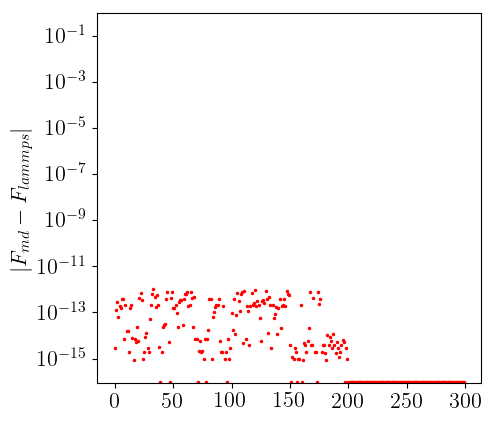
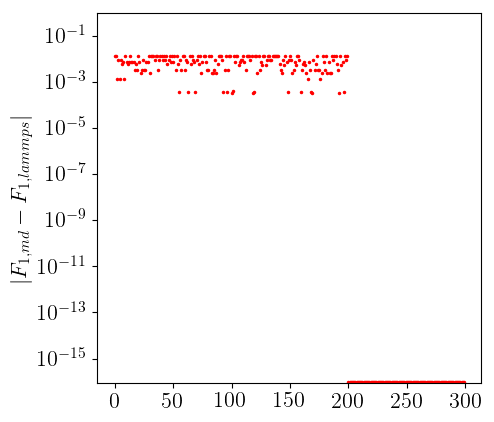
Rewrote main program for clarity, added tests for second time step positions/velocities/forces. Something is awfully wrong..

diff --git a/testcases/md-2d-lj/analysis/positions_and_velocities_and_forces.py b/testcases/md-2d-lj/analysis/positions_and_velocities_and_forces.py
@@ -46,29 +46,25 @@ if __name__ == '__main__':
     compileAndRun()
 
     # Read positions/forces.dump and lammps.dump 
-    forces_md        = readValues('forces.dump')
     positions_md     = readValues('positions.dump')
-    positions2_md    = readValues('positions2.dump')
     velocities_md    = readValues('velocities.dump')
-    positions_lammps, velocities_lammps, forces_lammps = getValuesLammps(0)
+    forces_md        = readValues('forces.dump')
+
+    positions2_md    = readValues('positions.dump')
+    velocities2_md   = readValues('velocities.dump')
+    forces2_md       = readValues('forces.dump')
+
+    positions_lammps,  velocities_lammps,  forces_lammps  = getValuesLammps(0)
+    positions2_lammps, velocities2_lammps, forces2_lammps = getValuesLammps(1)
 
     markersize = 3.0
     low_limit = 0.9e-16
     up_limit = 1e-0
     fontsize = 16
 
-    plt.figure()
     plt.rc('text', usetex=True)
-    difference = np.abs(np.ravel(forces_md)-np.ravel(forces_lammps))
-    difference[difference<1e-16] = 1e-16
-    plt.semilogy(difference, 'r.', markersize=markersize)
-    plt.ylabel(r"$|F_{md} - F_{lammps}|$", fontsize=fontsize)
-    plt.ylim((low_limit, up_limit))
-    plt.subplots_adjust(left=0.3)
-    plt.xticks(fontsize=fontsize)
-    plt.yticks(fontsize=fontsize)
-    plt.savefig(os.path.join(os.path.dirname(__file__), 'figures', 'forces-firststep.png'), transparent=True, bbox_inches='tight')
 
+    # POSITION STEP 1
     plt.figure()
     difference = np.abs(np.ravel(positions_md)-np.ravel(positions_lammps))
     difference[difference<1e-16] = 1e-16
@@ -80,6 +76,7 @@ if __name__ == '__main__':
     plt.yticks(fontsize=fontsize)
     plt.savefig(os.path.join(os.path.dirname(__file__), 'figures', 'positions-firststep.png'), transparent=True, bbox_inches='tight')
 
+    # VELOCITY STEP 1
     plt.figure()
     difference = np.abs(np.ravel(velocities_md)-np.ravel(velocities_lammps))
     difference[difference<1e-16] = 1e-16
@@ -90,10 +87,22 @@ if __name__ == '__main__':
     plt.xticks(fontsize=fontsize)
     plt.yticks(fontsize=fontsize)
     plt.savefig(os.path.join(os.path.dirname(__file__), 'figures', 'velocities-firststep.png'), transparent=True, bbox_inches='tight')
-
+    
+    # FORCES STEP 1
     plt.figure()
-    positions_lammps, _, _ = getValuesLammps(1)
-    difference = np.abs(np.ravel(positions2_md)-np.ravel(positions_lammps))
+    difference = np.abs(np.ravel(forces_md)-np.ravel(forces_lammps))
+    difference[difference<1e-16] = 1e-16
+    plt.semilogy(difference, 'r.', markersize=markersize)
+    plt.ylabel(r"$|F_{1,md} - F_{1,lammps}|$", fontsize=fontsize)
+    plt.ylim((low_limit, up_limit))
+    plt.subplots_adjust(left=0.3)
+    plt.xticks(fontsize=fontsize)
+    plt.yticks(fontsize=fontsize)
+    plt.savefig(os.path.join(os.path.dirname(__file__), 'figures', 'forces-firststep.png'), transparent=True, bbox_inches='tight')
+
+    # POSITION STEP 2
+    plt.figure()
+    difference = np.abs(np.ravel(positions2_md)-np.ravel(positions2_lammps))
     difference[difference<1e-16] = 1e-16
     plt.semilogy(difference, 'r.', markersize=markersize)
     plt.ylabel(r"$|r_{2,md} - r_{2,lammps}|$", fontsize=fontsize)
@@ -104,4 +113,30 @@ if __name__ == '__main__':
     plt.savefig(os.path.join(os.path.dirname(__file__), 'figures', 'positions-secondstep.png'), transparent=True, bbox_inches='tight')
     plt.show()
 
+    # VELOCITY STEP 2
+    plt.figure()
+    difference = np.abs(np.ravel(velocities2_md)-np.ravel(velocities2_lammps))
+    difference[difference<1e-16] = 1e-16
+    plt.semilogy(difference, 'r.', markersize=markersize)
+    plt.ylabel(r"$|v_{2,md} - v_{2,lammps}|$", fontsize=fontsize)
+    plt.subplots_adjust(left=0.3)
+    plt.ylim((low_limit, up_limit))
+    plt.xticks(fontsize=fontsize)
+    plt.yticks(fontsize=fontsize)
+    plt.savefig(os.path.join(os.path.dirname(__file__), 'figures', 'velocities-secondstep.png'), transparent=True, bbox_inches='tight')
+    plt.show()
+
+    # FORCES STEP 2
+    plt.figure()
+    difference = np.abs(np.ravel(forces2_md)-np.ravel(forces2_lammps))
+    difference[difference<1e-16] = 1e-16
+    plt.semilogy(difference, 'r.', markersize=markersize)
+    plt.ylabel(r"$|F_{2,md} - F_{2,lammps}|$", fontsize=fontsize)
+    plt.subplots_adjust(left=0.3)
+    plt.ylim((low_limit, up_limit))
+    plt.xticks(fontsize=fontsize)
+    plt.yticks(fontsize=fontsize)
+    plt.savefig(os.path.join(os.path.dirname(__file__), 'figures', 'forces-secondstep.png'), transparent=True, bbox_inches='tight')
+    
+    plt.show()
 

diff --git a/testcases/md-2d-lj/analysis/energies.py b/testcases/md-2d-lj/analysis/energies.py
@@ -52,12 +52,17 @@ if __name__ == '__main__':
     md_total     = np.sum(md_energies, axis=0)
     md_diff      = np.array([np.abs(md_total[i]-md_total[0]) for i in range(len(md_total))])
     md_diff[0]   = 1e-16
+    lammps_diff   = np.array([np.abs(lammps_total[i]-lammps_total[0]) for i in range(len(lammps_total))])
+    lammps_diff[0] = 1e-16
+
+    print(lammps_total)
 
     plt.figure()
     difference = np.abs(md_total - lammps_total)
     difference[difference<1e-16] = 1e-16
     plt.semilogy(difference, 'b-o', markersize=markersize, label=r'$|E_{md}-E_{lammps}|$')
     plt.semilogy(md_diff,    'r-o', markersize=markersize, label=r'$|\Delta E_{md}|$')
+    plt.semilogy(lammps_diff,    'k-o', markersize=markersize, label=r'$|\Delta E_{lammps}|$')
     plt.ylabel(r"$|\Delta E_{total}|$", fontsize=fontsize)
     plt.subplots_adjust(left=0.3)
     plt.ylim((low_limit, up_limit))
